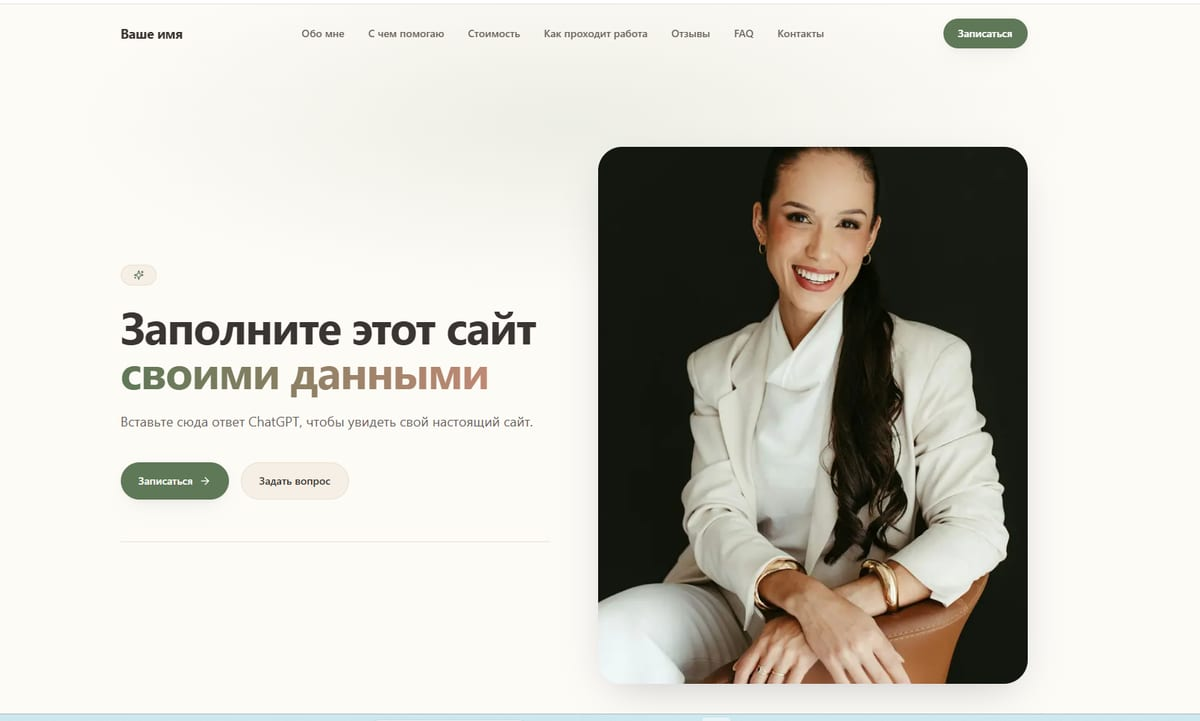
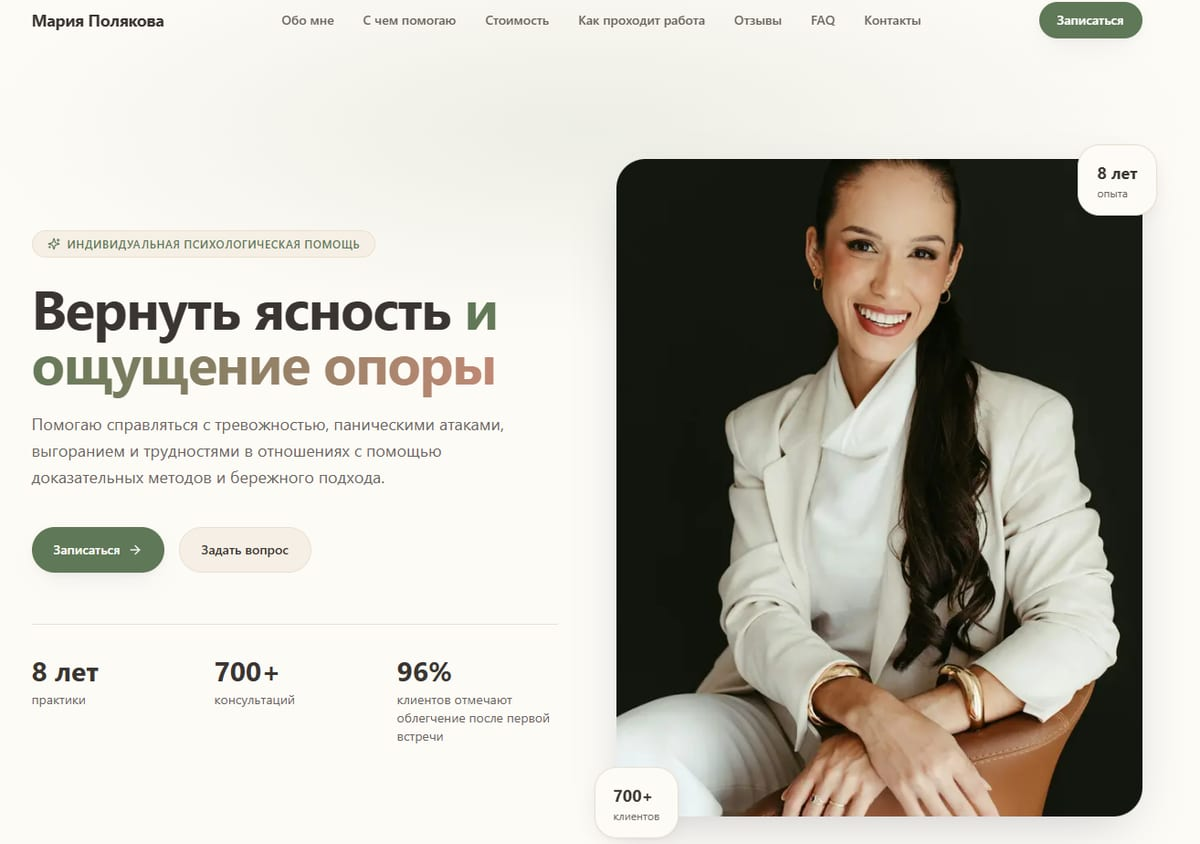
Add tool-05 material screenshot, swap site example, fix image cropping
- FiveTools 05 "Материал, который показывает вашу компетентность" now
  shows a real screenshot (this article itself, used as the example
  material) instead of the plain color panel.
- ProductShowcase 01 "Сайт-визитка": replaced the generic "fill in your
  data" template screenshot with a real, finished client site example.
- Fixed image cropping across FiveTools cards and ProductShowcase
  screenshots: switched from object-cover (which cropped edges to fill a
  fixed aspect box) to object-contain with padding, so every example
  image is shown in full inside a bit of breathing room. Tool 04 (the
  one image without a baked-in title) now gets its number/title in a
  solid caption band below the image instead of a gradient overlay on
  top of it, since the image is no longer full-bleed.

Claude-Session: https://claude.ai/code/session_01NKpJS8GHMfuypmWurjvCkr

diff --git a/landing/src/components/ToolSection.tsx b/landing/src/components/ToolSection.tsx
@@ -13,14 +13,16 @@ function NumberPanel({ tool, compact = false }: { tool: Tool; compact?: boolean 
 
   if (tool.image) {
     return (
-      <div className={`relative overflow-hidden rounded-[2rem] ${aspect}`}>
-        <img
-          src={tool.image}
-          alt={tool.title}
-          className="absolute inset-0 h-full w-full object-cover"
-        />
+      <div className="overflow-hidden rounded-[2rem] border border-ink/10 bg-sand/25">
+        <div className={`flex items-center justify-center ${aspect} p-6 sm:p-8`}>
+          <img
+            src={tool.image}
+            alt={tool.title}
+            className="max-h-full max-w-full rounded-xl object-contain shadow-[0_20px_45px_-20px_rgba(37,33,39,0.35)]"
+          />
+        </div>
         {!tool.imageHasLabel && (
-          <div className="absolute inset-x-0 bottom-0 bg-gradient-to-t from-ink/80 via-ink/20 to-transparent px-7 pb-6 pt-16 sm:px-9 sm:pb-7">
+          <div className="bg-plum px-7 py-6 sm:px-9">
             <span className="font-serif text-sm font-medium tracking-[0.3em] text-white/70">
               {tool.number} / 05
             </span>

diff --git a/landing/src/components/ProductShowcase.tsx b/landing/src/components/ProductShowcase.tsx
@@ -12,11 +12,11 @@ function ProductScreenshot({ screenshot, title }: { screenshot: string; title: s
         <span className="h-2.5 w-2.5 rounded-full bg-ink/15" />
         <span className="h-2.5 w-2.5 rounded-full bg-ink/15" />
       </div>
-      <div className="aspect-[4/3] overflow-hidden bg-sand/20">
+      <div className="flex aspect-[4/3] items-center justify-center bg-sand/20 p-4 sm:p-5">
         <img
           src={screenshot}
           alt={title}
-          className="h-full w-full object-cover object-top"
+          className="max-h-full max-w-full rounded-md object-contain shadow-[0_8px_24px_-12px_rgba(37,33,39,0.3)]"
         />
       </div>
     </div>

diff --git a/landing/src/data/tools.ts b/landing/src/data/tools.ts
@@ -77,6 +77,8 @@ export const tools: Tool[] = [
     icon: "📑",
     title: "Материал, который показывает вашу компетентность",
     layout: "horizontal",
+    image: "/images/five-tools-05-material.jpg",
+    imageHasLabel: true,
     paragraphs: [
       "И вот здесь многие сразу думают: «Мне нужно писать экспертные посты каждый день». Нет.",
       "Вам нужен хотя бы один материал, после которого человек понимает: «Да, этот человек разбирается в своей теме».",
